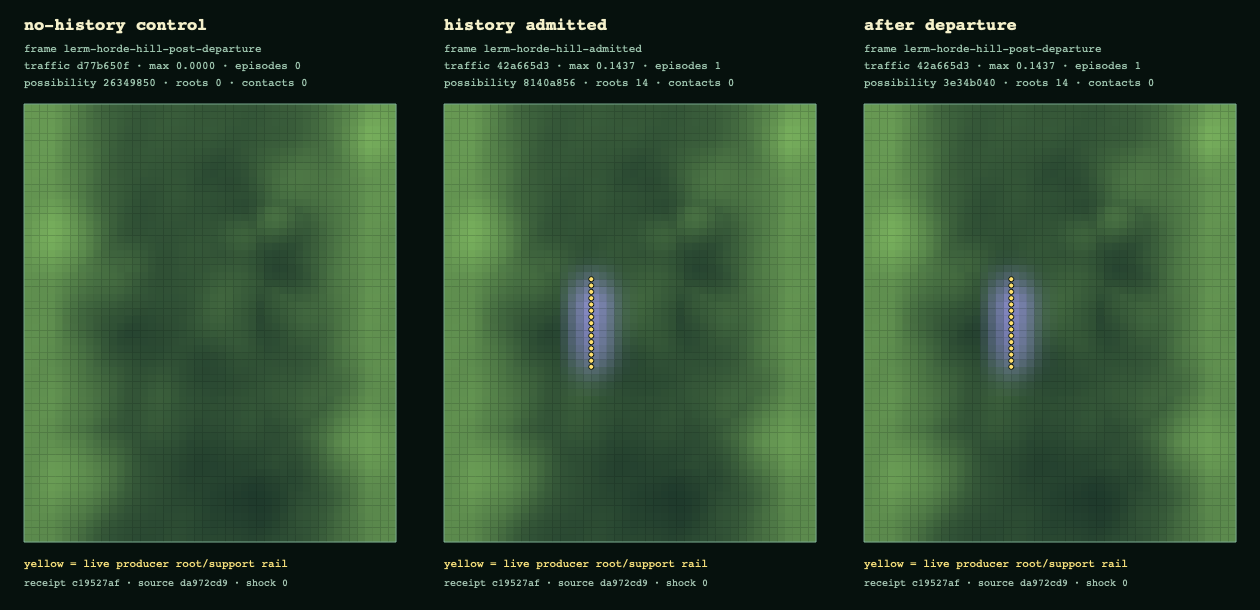
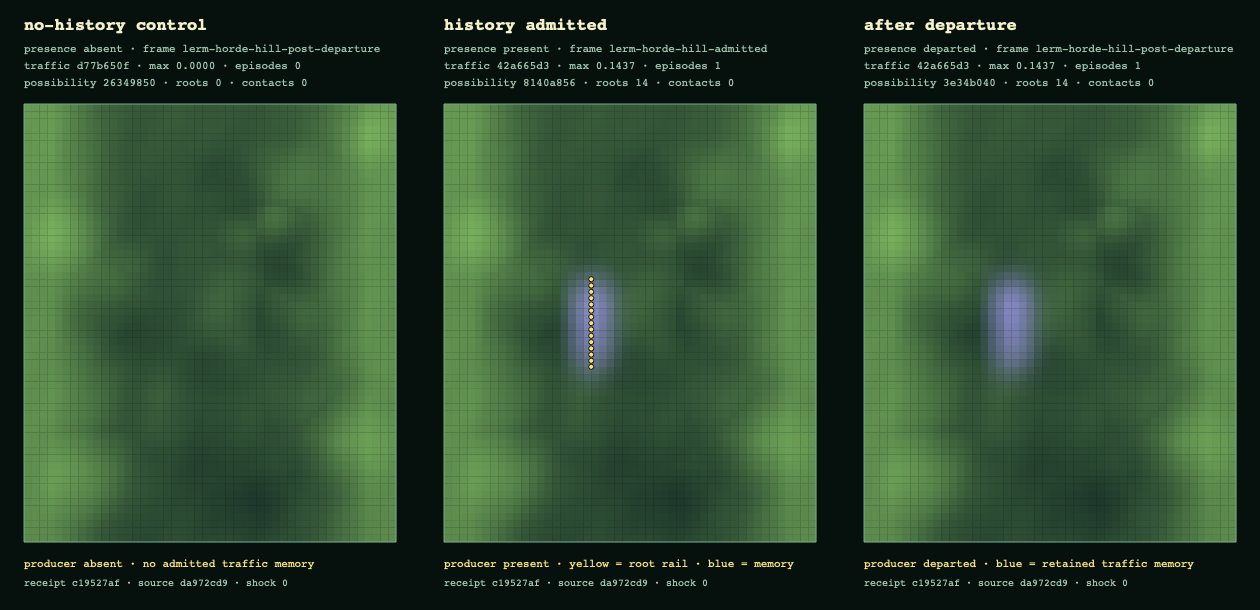
terrain: preserve explicit presence replay evidence

diff --git a/artifacts/lerm-horde-producer-history/README.md b/artifacts/lerm-horde-producer-history/README.md
@@ -55,19 +55,22 @@ or Lerm-species evidence?
 Result: yes. `operator-replay.png` and `operator-replay.svg` show the exact
 no-history control, the history-admitted Hill, and the same Hill after producer
 departure. The control carries no traffic. Admission creates one compact
-producer-traffic band over 14 supported roots, and the identical traffic field
-persists after departure. All three panels retain zero inferred contacts and
-zero support-shock resets. The replay independently reproduces the receipt's
-traffic and topology-possibility checksums before it renders.
+producer-traffic band over 14 supported roots and renders the current producer
+rail in yellow. After departure the yellow presence rail is absent while the
+identical blue traffic field remains, making absence plus persistence visible
+instead of asking the operator to infer it from labels. All three panels retain
+zero inferred contacts and zero support-shock resets. The replay independently
+reproduces the receipt's traffic and topology-possibility checksums before it
+renders.
 
 Route:
 
 - repo: `lerms`
 - worktree: `/private/tmp/lerms-hill-producer-history-operator-replay-0724`
 - branch: `cc/hill-producer-history-operator-replay-0724`
-- replay implementation: `b22474eb10f927f1416ce760354a1dca075fc538`
+- replay implementation: `96afdd5a30b4a0e36ae8152e2b866c4ef7ef289b`
[1 lines of base64/hex data omitted]
-- generated: `2026-07-24T01:13:13Z`
+- generated: `2026-07-24T01:34:25Z`
 - effective Hill route: `lerms/hill-of-hills/producer-contact-history-v0`
 - effective authority/backend/config: `live_simulation` / `cpu-live` / `hill-of-hills-live-v0`
 - replay profile: `lerm-horde-live-producer-history-v0`, seed `414`, grid `48x60`, terrain `12x15`, phase duration `600ms`
@@ -83,13 +86,13 @@ npm run witness:hill-producer-history-replay -- \
 Images and reports:
 
 - `operator-replay.png`: inspected raster rendering of the three-state replay;
[2 lines of base64/hex data omitted]
 - `operator-replay.svg`: primary deterministic replay image; SHA-256
[2 lines of base64/hex data omitted]
 - `operator-replay.json`: machine report with requested/effective source
   and output path identity, independently replayed checksums, assertion results,
   and primary output status; SHA-256
[2 lines of base64/hex data omitted]
 
 This evidence does not prove a moving rendered creature, a final Lerm body,
 complete stance contacts, or that the current traffic material is the desired